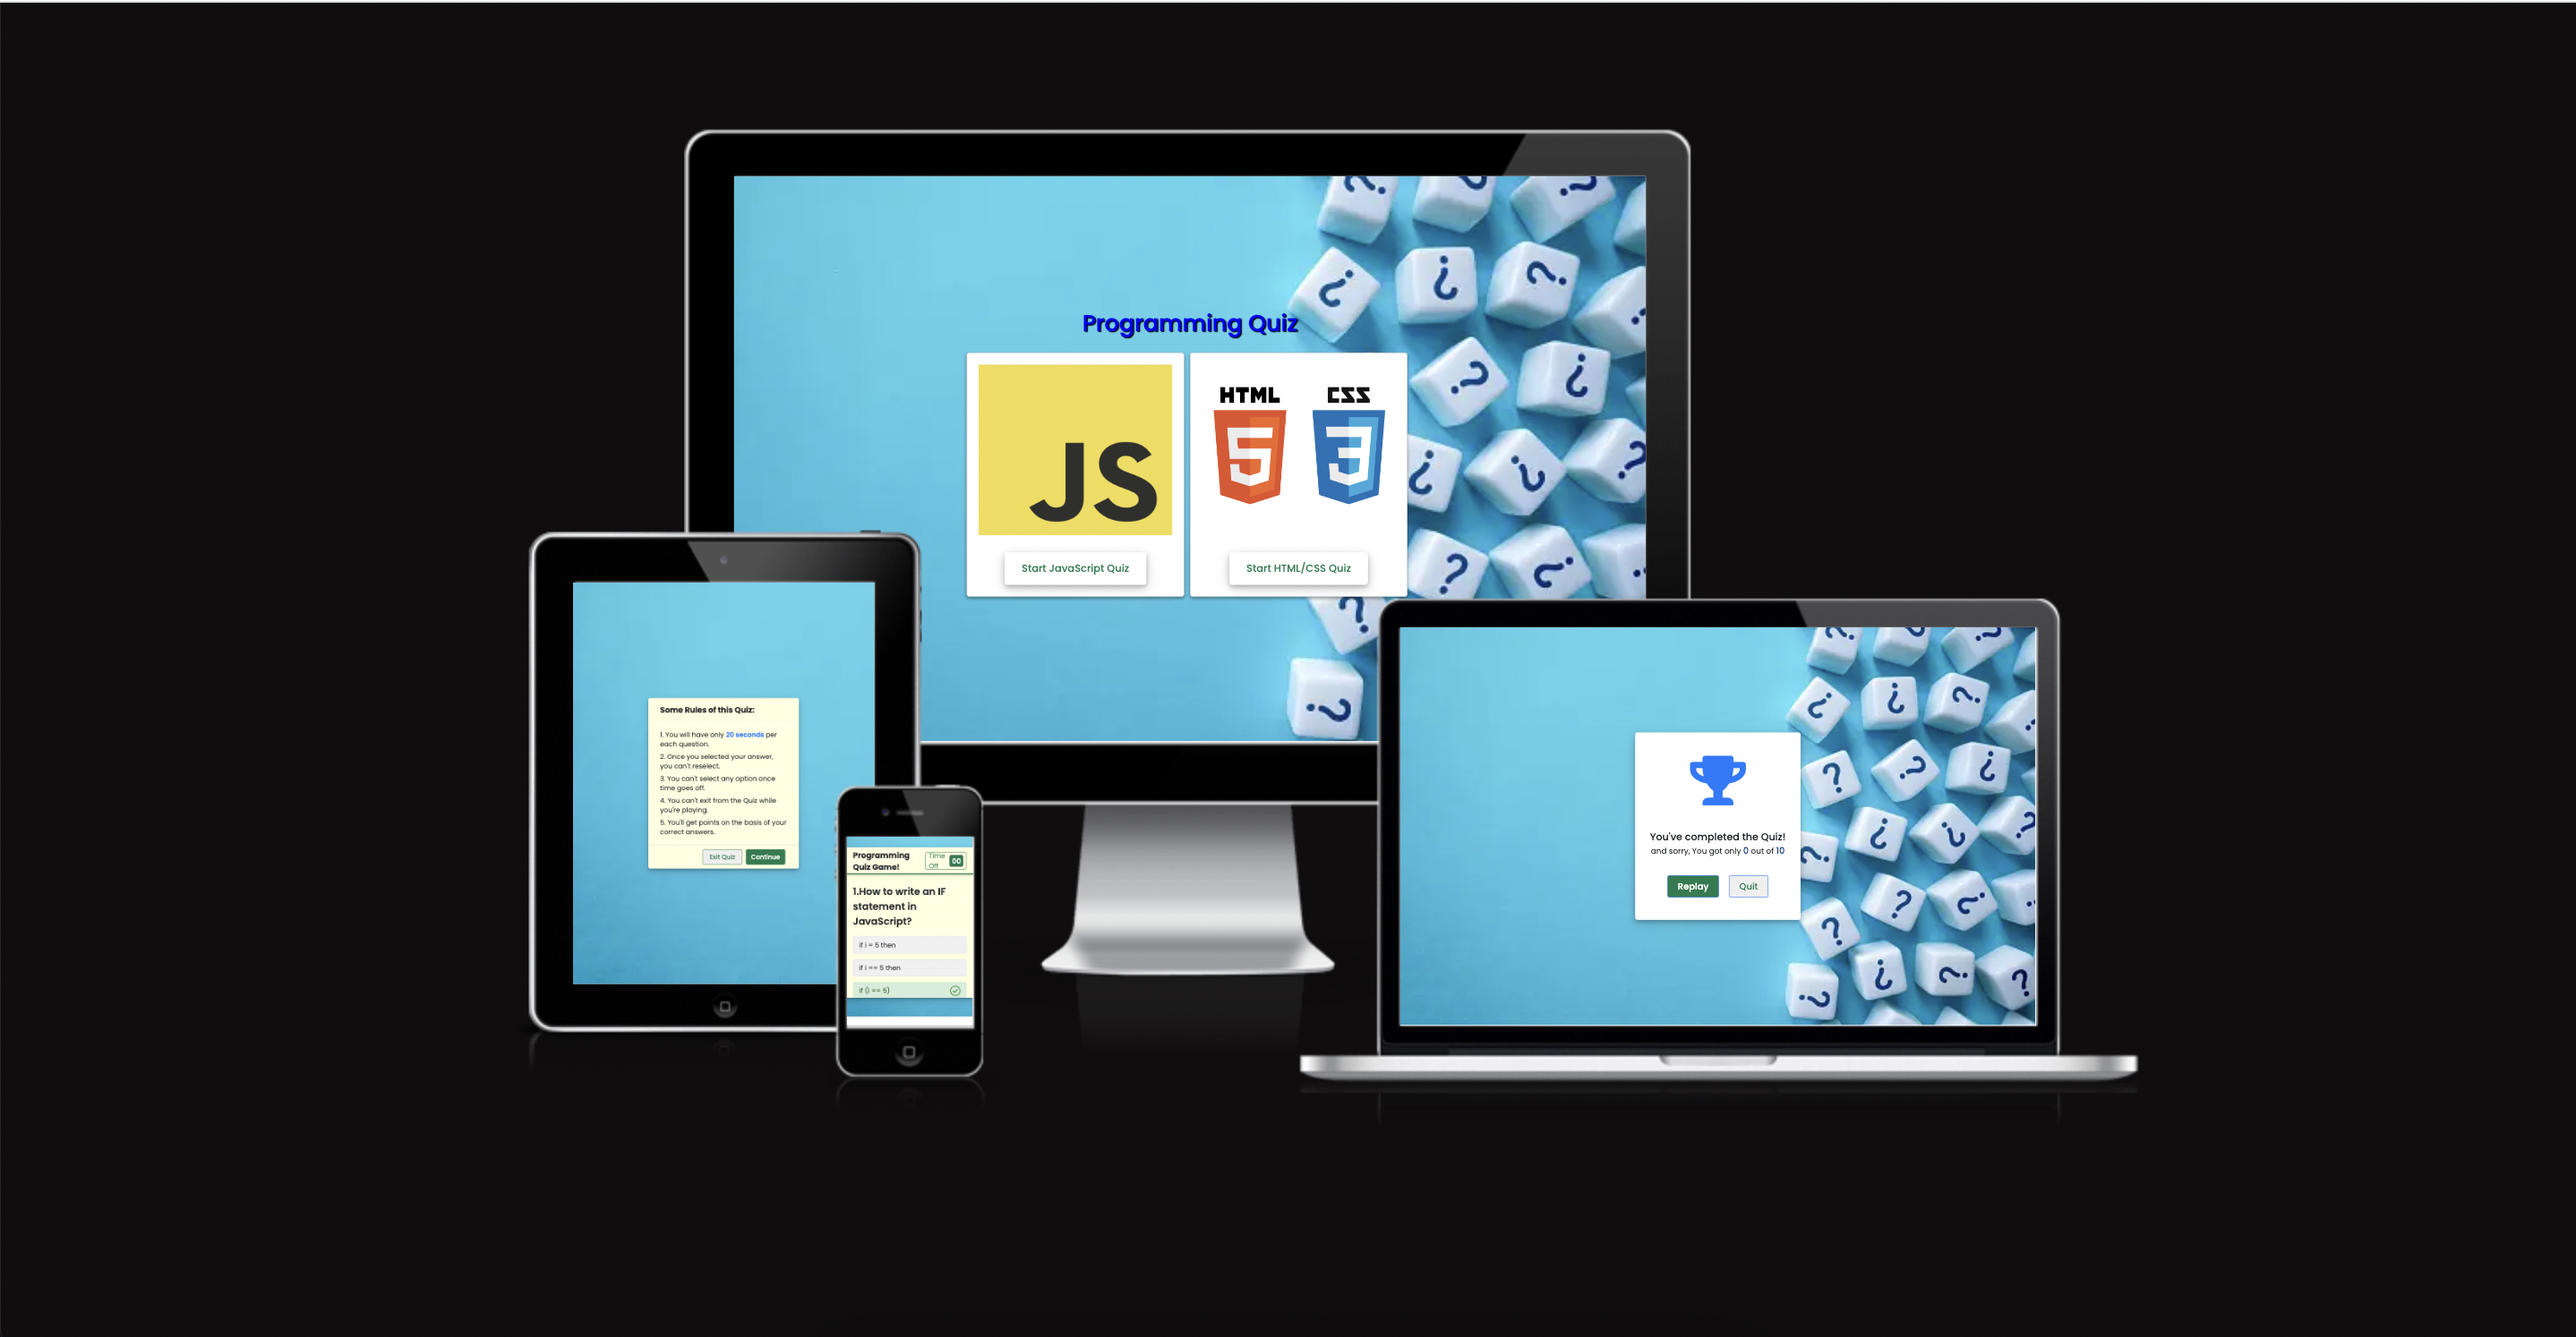
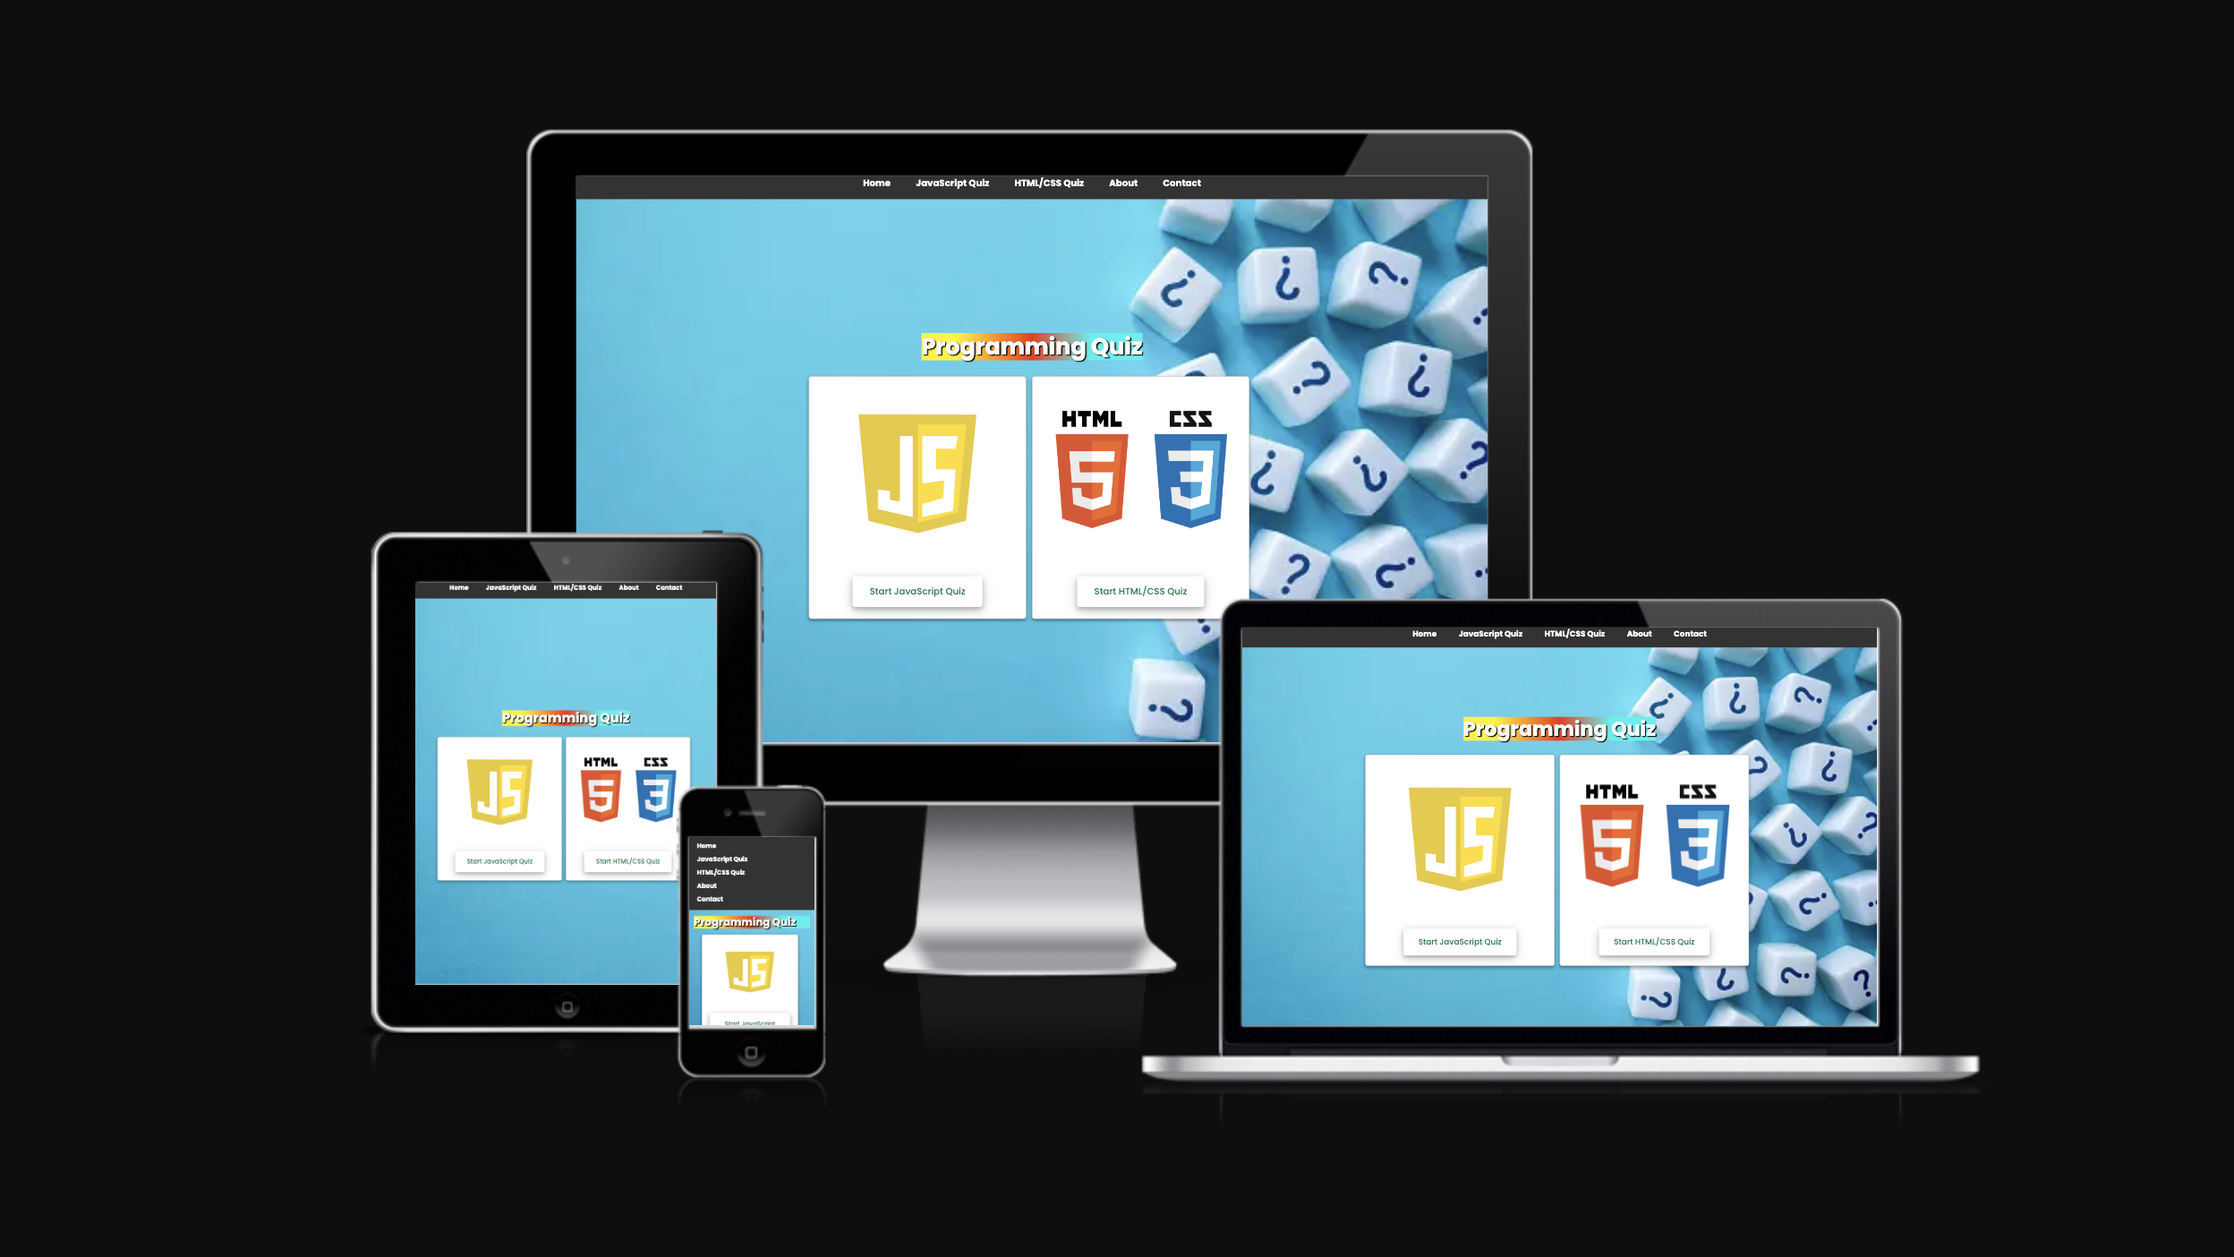
adding res[ponsive page in readme

Changed region(s): [[0.1562, 0.0919, 0.9062, 0.8575]]

diff --git a/assets/js/script.js b/assets/js/script.js
@@ -454,5 +454,3 @@ function sendContactEmail() {
 
     }
 }
-
-

diff --git a/README.md b/README.md
@@ -14,34 +14,51 @@ Welcome to the JavaScript and HTML/CSS Fundamentals Quiz! This quiz is designed 
 
 
 ## User Stories
-- As a user, I can track my quiz progress and see my scores over time.
-- As a user, I want to browse and select quizzes by category so that I can choose quizzes that match my interests or skill level.
+- As a user, I want to navigate to different sections of the website so that I can choose the quiz I want to play.
+- As a user, I want to start a quiz so that I can test my programming knowledge.
 - As a user, I want to see a list of available questions in a quiz so that I can prepare and understand the scope of the quiz.
-- As a user,  I can answer questions and test my knowledge.
-- As a user, I want to answer multiple-choice questions so that I can provide my answers for evaluation.
-- As a user, I want to see my progress within the quiz so that I can gauge how much is left and manage my time effectively.
-- As a user, I want to review and change my answers before submitting the quiz so that I can make sure I've answered to the best of my ability.
-- As a user, I want to receive immediate feedback on my answers so that I can understand which questions I answered correctly and incorrectly.
+- As a user, I want to receive clear instructions on how the quiz works so that I can understand the rules.
+- As a user, I want to enter my name and email before starting the quiz so that I can be identified and receive my results.
+- As a user, I want to see my progress in the quiz so that I know how many questions are remaining.
+- As a user, I want to see my final score at the end of the quiz so that I know how well I performed.
+- As a user, I want to be able to replay the quiz so that I can try to improve my score.
+- As a user, I want to be able to quit the quiz at any time so that I can exit the game.
+- As a user, I want the quiz to be visually appealing and easy to understand so that I can enjoy my experience.
 
 ## Features
 ### Start Page
 
-Landing page of Programming Quiz. It displays two start button with javascript and html/css when pressed that start showing the rules box if we press continue it will take us to quiz box once we are done with quiz it will display the score card.
+- Landing page of Programming Quiz. Home page with navigation links.
+- Links to JavaScript Quiz, HTML/CSS Quiz, About, and Contact pages. 
+- Start buttons for JavaScript Quiz and HTML/CSS Quiz.
 
 ![Start page](assets/images/startpage.png)
 
 #### Set Of Rules
 
+- Display rules and instructions for the quiz.
+- Inform users about the time limit per question, no option reselection, inability to exit during the quiz, and scoring system.
+
 ![Set Of Rules](assets/images/Rulesbox.png)
----
+
+#### User Information Input
+
+- Form to input user's name and email before starting the quiz.
+
+![User Information Input](assets/images/Rulesbox.png)
+
 ### Quiz Box
 
-If we press javascript questions it shows javascript quiz else it shows html/css questions .It shows all the question from 1 to 10 .
+- Display quiz questions with multiple-choice options.
+- Implement a 20-second timer for each question.
+- Display current question number out of the total number of questions.
 
 ![Quiz Box](assets/images/Quizbox.png)
 
 #### Score Card
-This shows the result of the score.
+
+- Display final score out of the total number of questions.
+- Option to replay the quiz.
 
 ![Score Crad](assets/images/scorecard.png)
 
